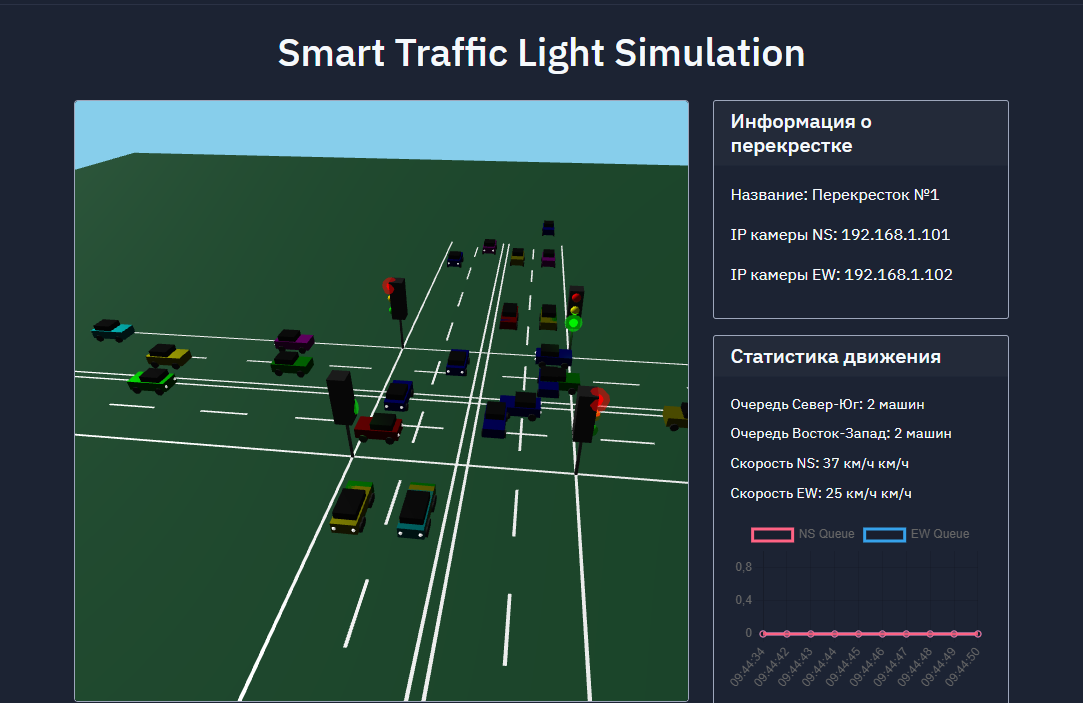
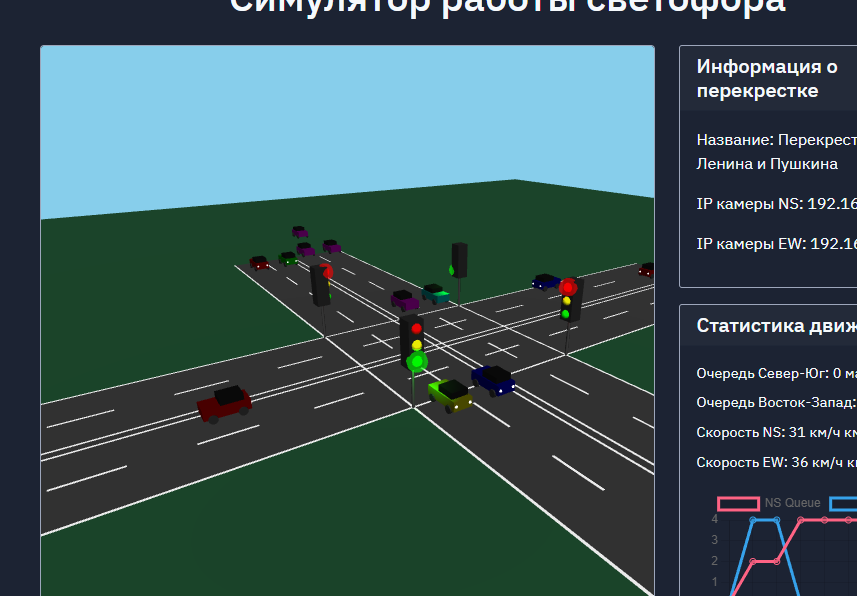
Agent query: Проверьте работу светофоров после обновления: 1) Остановка на красный и желтый, 2) Завершение проезда перекрестка на зеленый, 3) Предотвращение выезда на красный

diff --git a/static/js/simulation.js b/static/js/simulation.js
@@ -330,19 +330,10 @@ class TrafficSimulation {
     checkTrafficLights(vehicle) {
         const STOP_LINE = 35;
         const INTERSECTION_ZONE = 10;
-        const SLOW_DOWN_DISTANCE = 60;
         
         const position = vehicle.mesh.position;
         const inIntersection = Math.abs(position.x) < INTERSECTION_ZONE && 
                               Math.abs(position.z) < INTERSECTION_ZONE;
-        
-        // Если машина уже в зоне перекрестка и едет на зеленый, позволяем закончить маневр
-        if (inIntersection && 
-            this.trafficLights[vehicle.direction].state === 'green' &&
-            vehicle.currentSpeed.dx !== 0 || 
-            vehicle.currentSpeed.dy !== 0) {
-            return;
-        }
         
         const beforeStopLine = 
             (vehicle.direction === 'north' && position.z > STOP_LINE) ||
@@ -350,16 +341,39 @@ class TrafficSimulation {
             (vehicle.direction === 'east' && position.x < -STOP_LINE) ||
             (vehicle.direction === 'west' && position.x > STOP_LINE);
         
-        if (beforeStopLine || inIntersection) {
-            const lightState = this.trafficLights[vehicle.direction].state;
+        // Проверяем состояние светофора
+        const lightState = this.trafficLights[vehicle.direction].state;
+        
+        // Если машина приближается к перекрестку
+        if (beforeStopLine) {
             if (lightState === 'red' || lightState === 'yellow') {
+                // Останавливаем машину на красный или желтый
                 vehicle.waiting = true;
                 vehicle.currentSpeed.dx = 0;
                 vehicle.currentSpeed.dy = 0;
-            } else {
-                vehicle.waiting = false;
-                vehicle.currentSpeed = {...vehicle.maxSpeed};
             }
+        }
+        
+        // Если машина уже в перекрестке
+        if (inIntersection) {
+            // Разрешаем проезд только если был зеленый при въезде
+            if (lightState === 'red' || lightState === 'yellow') {
+                if (!vehicle.crossingOnGreen) {
+                    vehicle.waiting = true;
+                    vehicle.currentSpeed.dx = 0;
+                    vehicle.currentSpeed.dy = 0;
+                }
+            } else {
+                vehicle.crossingOnGreen = true;
+            }
+        } else {
+            vehicle.crossingOnGreen = false;
+        }
+        
+        // Если зеленый - можно ехать
+        if (lightState === 'green' && !inIntersection) {
+            vehicle.waiting = false;
+            vehicle.currentSpeed = {...vehicle.maxSpeed};
         }
     }
 

diff --git a/static/js/vehicle.js b/static/js/vehicle.js
@@ -12,6 +12,7 @@ class Vehicle {
         this.currentSpeed = { dx: 0, dy: 0 };
         this.maxSpeed = { dx: 0, dy: 0 };
         this.lane = 0;
+        this.crossingOnGreen = false; // Флаг для отслеживания въезда на зеленый
         
         if (turnDirection) {
             this.startTurnSignal(turnDirection);
